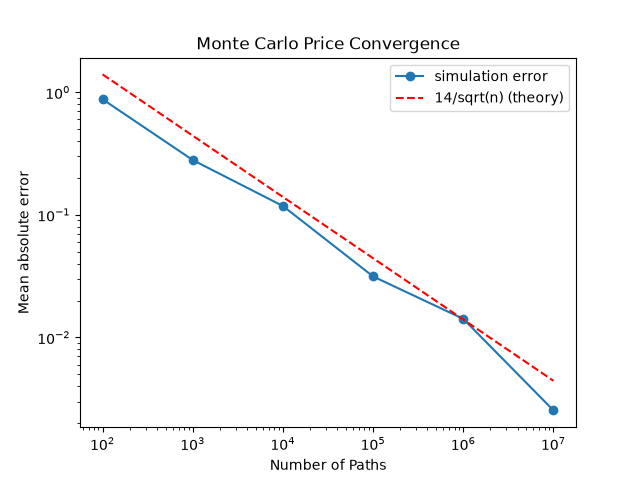
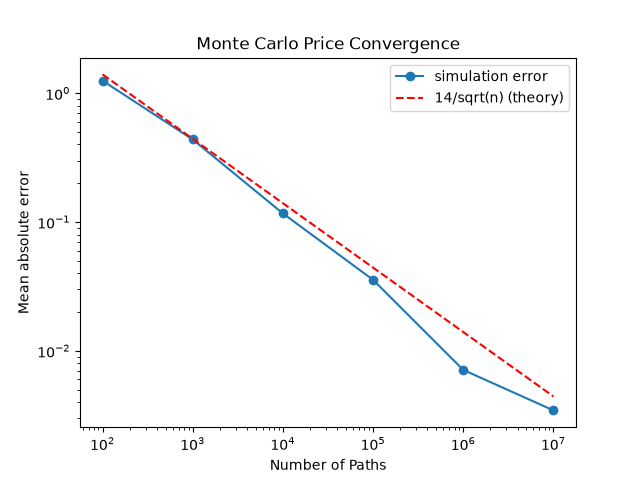
Add README with parameters, results and limitations

diff --git a/price_paths.py b/price_paths.py
@@ -31,6 +31,10 @@ def black_scholes_call(S, K, r, sigma, T):
 p = PricePaths(100, 0.05, 0.2)
 bs = black_scholes_call(100, 100, 0.05, 0.2, 1)
 sizes = [10 ** 2, 10 ** 3, 10 ** 4, 10 ** 5, 10 ** 6, 10 ** 7]
+p.generate(10 ** 6, 1, 1)
+payoffs = np.exp(-p.mu * 1) * np.maximum(p.paths[:, -1] - 100, 0)
+price = payoffs.mean()
+error = payoffs.std() / np.sqrt(len(payoffs))  # standard error
 mean_errors = []
 
 for n in sizes:
@@ -39,6 +43,14 @@ for n in sizes:
         p.generate(n, 1, 1)
         errors.append(abs(p.price_call(100, 1) - bs))
     mean_errors.append(np.mean(errors))
+
+text = (f"Monte Carlo price: {price:.4f} +/- {error:.4f}\n"
+        f"Black-Scholes price: {bs:.4f}\n"
+        f"Payoff std (sigma): {payoffs.std():.2f}\n")
+print(text)
+
+with open("results.txt", "w") as f:
+    f.write(text)
 
 sizes = np.array(sizes)
 plt.plot(sizes, mean_errors, 'o-', label='simulation error')
